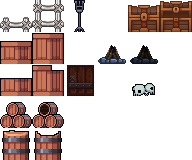
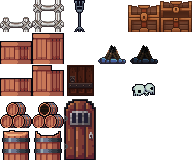
added new door

Changed region(s): [[0.3125, 0.5938, 0.5, 1.0]]

diff --git a/src/classes/map-scene-levels.ts b/src/classes/map-scene-levels.ts
@@ -42,7 +42,7 @@ export class MapSceneLevels {
     '#248': 59, '#249': 44, '#250': 43, '#251': 19, '#252': 28, '#253': 29, '#254': 27,
   }
   _tileIndexes: IMapTilesIndexes = {
-    'D': EnvElmtns.door, 't': 0, 'tt': 1, 'k': EnvElmtns.chest, 'B': EnvElmtns.fire, 'A': EnvElmtns.torch,
+    'D': EnvElmtns.door, 'DD': EnvElmtns.topDoor, 't': 0, 'tt': 1, 'k': EnvElmtns.chest, 'B': EnvElmtns.fire, 'A': EnvElmtns.torch,
     'l1': EnvElmtns.box, 'l2': EnvElmtns.bigBox, 'l3': EnvElmtns.barrels, 'l4': EnvElmtns.bigBarrel, 'p': 16
   }
   _tileBackInds: IMapTilesIndexes = {
@@ -104,7 +104,7 @@ export class MapSceneLevels {
       ['t'], symbolMap, 'ladderLayer', TileSetModificators.ladders, tls.env, this._tileIndexes, map)
 
     this.envLayer = this.createLayer(
-      ['D', 'k', 'B', 'A', 'p', 'l'],
+      ['D', 'DD', 'k', 'B', 'A', 'p', 'l'],
       symbolMap, 'envLayer', TileSetModificators.envWithBoxes, tls.env, this._tileIndexes, map)
   }
 
@@ -193,6 +193,11 @@ export class MapSceneLevels {
   ) {
     if (element == 'l') {
       map[i][j] = tileNums[element + getRandomIntNumber(1, 4)]
+    } else if (element == 'D') {
+      if (map[i-1][j]) {
+        map[i-1][j] = tileNums[element + element]
+      }
+      map[i][j] = tileNums[element]
     } else {
       map[i][j] = tileNums[element]
     }

diff --git a/src/classes/dude.ts b/src/classes/dude.ts
@@ -668,7 +668,7 @@ export class Dude {
     if (isUp) {
       this._playerBody.setVelocityY(-80)
     } else {
-      this._playerBody.setVelocityY(100)
+      this._playerBody.setVelocityY(120)
     }
   }
   // stop for dude

diff --git a/src/types/enums.ts b/src/types/enums.ts
@@ -101,7 +101,8 @@ export enum EnvStaticElements {
   bigBarrel = 24,
   openedBigBarrel = 25,
   torch = 2,
-  door = 14,
+  door = 26,
+  topDoor = 20,
   chest = 4,
   openedChest = 5,
   fire = 9,
